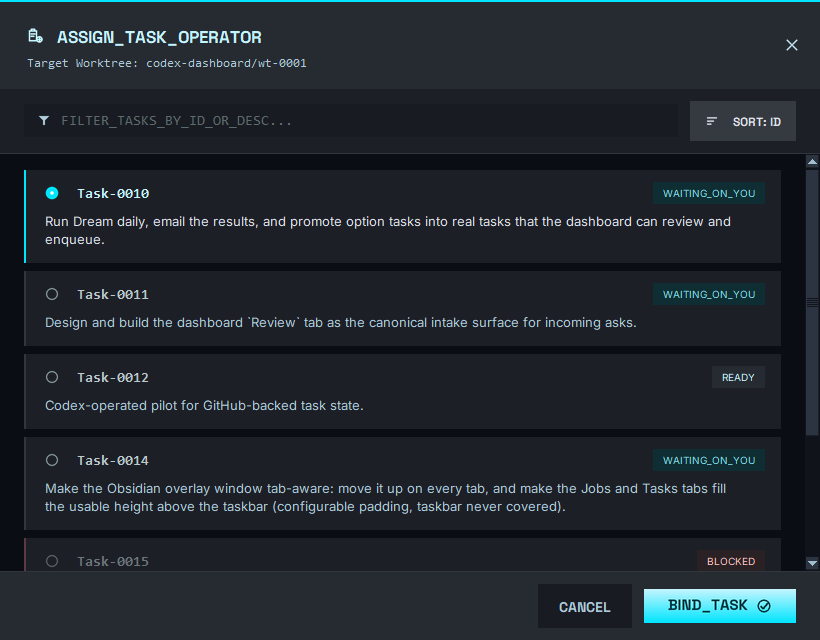
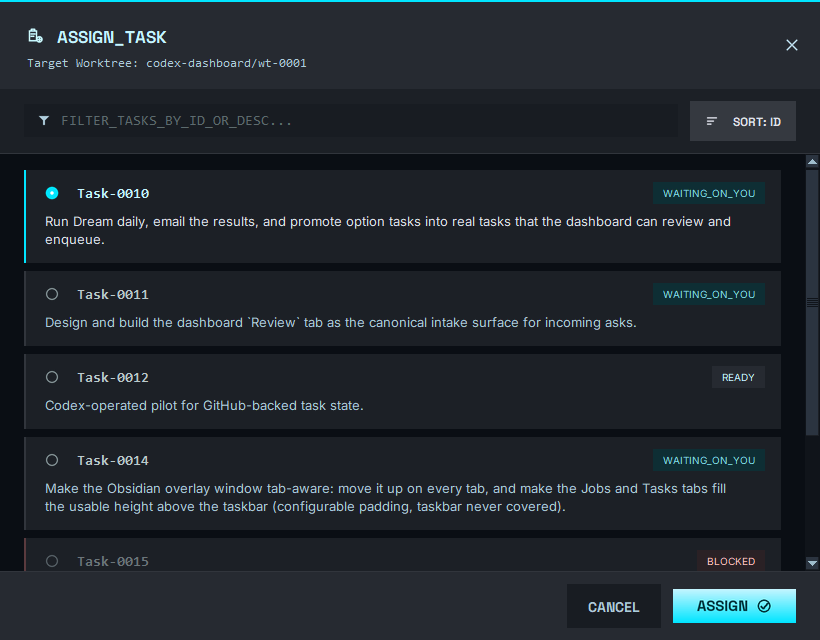
task-0016: WORKTREES-tab buttons to flat mockup style + renames
Ground the tab/card buttons in mockup-4's button language (flat 0px,
matching the Assign popup family):
- CREATE WORKTREE -> NEW WORKTREE (ghost-cyan + plus icon, cyan border)
- REFRESH STATUS  -> REFRESH (quiet gray)
- EJECT -> ghost-red flat + eject icon; DEQUEUE -> quiet flat (disabled
  when no bound task); ASSIGN -> solid-cyan flat
- popup title ASSIGN_TASK_OPERATOR -> ASSIGN_TASK; primary CTA
  BIND_TASK -> ASSIGN

glyphs: add plus + eject; _flat_button: add border (ghost) + disabled.
Full unit suite green (189).

Changed region(s): [[0.6707, 0.9062, 0.9146, 1.0], [0.2134, 0.0312, 0.3354, 0.0938]]

diff --git a/app/codex_dashboard/ui.py b/app/codex_dashboard/ui.py
@@ -1090,11 +1090,10 @@ class DashboardApp:
             justify="left",
         )
         self.worktrees_action_status_label.pack(anchor="w", pady=(2, 0))
-        self.worktrees_refresh_button = ttk.Button(
-            header,
-            text="REFRESH STATUS",
-            style="Quiet.TButton",
-            command=self.refresh_worktrees_data,
+        self.worktrees_refresh_button = self._flat_button(
+            header, "REFRESH", self.refresh_worktrees_data,
+            bg="#262a31", fg="#adcbda", hover_bg="#353940", hover_fg="#dfe2eb",
+            font=("Space Grotesk", -12, "bold"), padx=14, pady=7,
         )
         self.worktrees_refresh_button.grid(row=0, column=1, sticky="e")
 
@@ -1112,11 +1111,11 @@ class DashboardApp:
         )
         self.worktrees_repo_combo.pack(side="left", padx=(0, 12))
         self.worktrees_repo_combo.bind("<<ComboboxSelected>>", self._on_worktrees_repo_filter_changed)
-        self.worktrees_create_button = ttk.Button(
-            toolbar,
-            text="CREATE WORKTREE",
-            style="Accent.TButton",
-            command=self.create_worktree_for_selected_repo,
+        self.worktrees_create_button = self._flat_button(
+            toolbar, "NEW WORKTREE", self.create_worktree_for_selected_repo,
+            bg="#1c2026", fg="#00e5ff", hover_bg="#10333a", hover_fg="#c3f5ff",
+            font=("Space Grotesk", -12, "bold"), icon="plus", icon_color="#00e5ff",
+            icon_side="left", border="#0e4a52", padx=14, pady=7,
         )
         self.worktrees_create_button.pack(side="right")
 
@@ -1298,7 +1297,7 @@ class DashboardApp:
             # When the backend is reachable but the (filtered) pool is empty, point the
             # operator at CREATE WORKTREE rather than the generic refresh line.
             if str(self.worktrees_snapshot.get("status") or "") == "ok":
-                empty_text = "No worktrees in this repo yet - use CREATE WORKTREE to add one."
+                empty_text = "No worktrees in this repo yet - use NEW WORKTREE to add one."
             else:
                 empty_text = self.worktrees_status_message
             ttk.Label(
@@ -1440,16 +1439,17 @@ class DashboardApp:
                 parent, "details", lambda wt=dict(worktree): self.open_worktree_details(wt),
                 "Details", row_bg,
             ).pack(side="left", padx=(0, 10))
-            dequeue_button = ttk.Button(
-                parent, text="DEQUEUE", style="Quiet.TButton",
-                command=lambda tid=task_id: self.dequeue_task_action(tid),
-            )
-            if not task_id:
-                dequeue_button.state(["disabled"])
-            dequeue_button.pack(side="left", padx=(0, 8))
-            ttk.Button(
-                parent, text="EJECT", style="Danger.TButton",
-                command=lambda rid=run_id, wid=worktree_id: self.eject_worktree_action(rid, wid),
+            self._flat_button(
+                parent, "DEQUEUE", lambda tid=task_id: self.dequeue_task_action(tid),
+                bg="#303743", fg="#dfe2eb", hover_bg="#3b4450",
+                font=("Space Grotesk", -11, "bold"), padx=12, pady=6,
+                disabled=not task_id,
+            ).pack(side="left", padx=(0, 8))
+            self._flat_button(
+                parent, "EJECT", lambda rid=run_id, wid=worktree_id: self.eject_worktree_action(rid, wid),
+                bg="#2a1719", fg="#ffb4ab", hover_bg="#5a2327",
+                font=("Space Grotesk", -11, "bold"), icon="eject", icon_color="#ffb4ab",
+                icon_side="left", padx=12, pady=6,
             ).pack(side="left")
         else:
             self._worktree_icon_button(
@@ -1460,9 +1460,10 @@ class DashboardApp:
                 parent, "destroy", lambda wid=worktree_id: self.destroy_worktree_action(wid),
                 "Destroy", row_bg,
             ).pack(side="left", padx=(0, 12))
-            ttk.Button(
-                parent, text="ASSIGN", style="Accent.TButton",
-                command=lambda wt=dict(worktree): self.open_assign_popup(wt),
+            self._flat_button(
+                parent, "ASSIGN", lambda wt=dict(worktree): self.open_assign_popup(wt),
+                bg="#00e5ff", fg="#00363d", hover_bg="#2ee8ff",
+                font=("Space Grotesk", -11, "bold"), padx=14, pady=6,
             ).pack(side="left")
 
     def _icon_photo(self, kind: str, color: str, size: int):
@@ -1714,7 +1715,7 @@ class DashboardApp:
         if assign_icon is not None:
             tk.Label(title_row, image=assign_icon, bg="#262a31").pack(side="left", padx=(0, 8))
         tk.Label(
-            title_row, text="ASSIGN_TASK_OPERATOR", bg="#262a31", fg="#c3f5ff",
+            title_row, text="ASSIGN_TASK", bg="#262a31", fg="#c3f5ff",
             font=("Space Grotesk", -17, "bold"),
         ).pack(side="left")
         tk.Label(
@@ -1729,10 +1730,10 @@ class DashboardApp:
         # Full-width footer band with a top divider separating it from the scrollable list.
         tk.Frame(popup, bg="#31353c", height=1).pack(side="bottom", fill="x")
         bind_command = lambda: self._confirm_assign(popup, selection.get(), repo_for_assign, worktree_id)
-        bind_button = self._cta_button(footer, "BIND_TASK", bind_command, "#262a31")
+        bind_button = self._cta_button(footer, "ASSIGN", bind_command, "#262a31")
         if bind_button is None:
             bind_button = self._flat_button(
-                footer, "BIND_TASK", bind_command,
+                footer, "ASSIGN", bind_command,
                 bg="#00e5ff", fg="#00363d", hover_bg="#2ee8ff",
                 font=("Space Grotesk", -14, "bold"), icon="check", icon_color="#00363d",
                 padx=18, pady=9,
@@ -1856,18 +1857,25 @@ class DashboardApp:
     def _flat_button(
         self, parent, text, command, *, bg, fg, hover_bg, hover_fg=None, font,
         icon=None, icon_color=None, icon_side="right", padx=14, pady=8,
+        border=None, disabled=False,
     ):
-        # A flat 0px-radius button (mockup CTAs): solid fill + hover, optional crisp glyph.
-        # Built from tk widgets (not ttk) so the fill, padding, font, and icon match exactly.
+        # A flat 0px-radius button (mockup CTAs): solid fill + hover, optional crisp glyph
+        # and a thin border (ghost buttons). Built from tk widgets (not ttk) so the fill,
+        # padding, font, and icon match the mockup exactly. `disabled` mutes it + drops input.
         hover_fg = hover_fg or fg
-        frame = tk.Frame(parent, bg=bg, cursor="hand2")
+        eff_fg = "#566066" if disabled else fg
+        eff_icon_color = "#566066" if disabled else (icon_color or fg)
+        frame_kwargs = {"bg": bg, "cursor": "" if disabled else "hand2"}
+        if border is not None:
+            frame_kwargs.update(highlightthickness=1, highlightbackground=border, highlightcolor=border)
+        frame = tk.Frame(parent, **frame_kwargs)
         inner = tk.Frame(frame, bg=bg)
         inner.pack(padx=padx, pady=pady)
-        text_label = tk.Label(inner, text=text, bg=bg, fg=fg, font=font)
+        text_label = tk.Label(inner, text=text, bg=bg, fg=eff_fg, font=font)
         widgets = [frame, inner, text_label]
         icon_label = None
         if icon is not None:
-            image = self._icon_photo(icon, icon_color or fg, 16)
+            image = self._icon_photo(icon, eff_icon_color, 16)
             if image is not None:
                 icon_label = tk.Label(inner, image=image, bg=bg)
                 widgets.append(icon_label)
@@ -1878,6 +1886,8 @@ class DashboardApp:
             text_label.pack(side="left")
             if icon_label is not None:
                 icon_label.pack(side="left", padx=(8, 0))
+        if disabled:
+            return frame
 
         def enter(_e):
             for widget in widgets:

diff --git a/app/codex_dashboard/glyphs.py b/app/codex_dashboard/glyphs.py
@@ -101,6 +101,13 @@ def render_glyph(kind: str, color: str, size: int, supersample: int = SUPERSAMPL
         draw.ellipse([pt(0.4, 0.4), pt(0.6, 0.6)], fill=(255, 255, 255, 255))
     elif kind == "radio_off":
         circle(0.14, 0.14, 0.86, 0.86)
+    elif kind == "plus":
+        line([(0.5, 0.18), (0.5, 0.82)])
+        line([(0.18, 0.5), (0.82, 0.5)])
+    elif kind == "eject":
+        # an eject symbol: a triangle pointing up over a horizontal bar.
+        draw.polygon([pt(0.5, 0.2), pt(0.82, 0.56), pt(0.18, 0.56)], fill=rgba)
+        draw.rectangle([pt(0.18, 0.66), pt(0.82, 0.78)], fill=rgba)
     else:
         raise ValueError(f"unknown glyph kind: {kind!r}")
 
@@ -164,4 +171,6 @@ GLYPH_KINDS = (
     "check",
     "radio_on",
     "radio_off",
+    "plus",
+    "eject",
 )

diff --git a/Tracking/Task-0016/Testing/CardRedesign/REVIEW.md b/Tracking/Task-0016/Testing/CardRedesign/REVIEW.md
@@ -30,8 +30,12 @@ slot, one parked allocated slot (needs review), one idle slot.
 - **Right-justified actions**: Details (ⓘ) + DEQUEUE + EJECT for allocated; Details + a
   Destroy (trash) icon + ASSIGN for idle. Each icon is borderless, accent-on-hover, with a
   hover tooltip naming the action.
+- **Tab + card buttons** are flat mockup-style (grounded in mockup-4): ghost-cyan
+  **`+ NEW WORKTREE`** (renamed from CREATE WORKTREE), quiet **`REFRESH`** (renamed from
+  REFRESH STATUS), ghost-red **`⏏ EJECT`**, quiet **`DEQUEUE`**, solid-cyan **`ASSIGN`** —
+  matching the popup's button family.
 
-## ASSIGN_TASK_OPERATOR popup — mockup conformance
+## ASSIGN_TASK popup — mockup conformance
 
 Redesigned the Assign popup to the second Stitch mockup
 (`stitch_codex_token_velocity_overlay (5)\screen.png` + `code.html`).
@@ -41,7 +45,7 @@ Redesigned the Assign popup to the second Stitch mockup
 - **Cyan top border**; tonal layering (header/footer `surface-container-high` #262a31,
   toolbar/cards `surface-container` #1c2026, list `surface-container-lowest` #0a0e14) with
   toolbar/footer divider hairlines.
-- **Header**: `assignment_add` icon + `ASSIGN_TASK_OPERATOR` title + `Target Worktree:`
+- **Header**: `assignment_add` icon + `ASSIGN_TASK` title + `Target Worktree:`
   subtitle (mono) + close **X**.
 - **Toolbar**: `FILTER_TASKS_BY_ID_OR_DESC...` field (live filter) + `SORT: ID` (toggles
   id asc/desc).
@@ -49,7 +53,7 @@ Redesigned the Assign popup to the second Stitch mockup
   cyan family, `BLOCKED` orange-red) + description. **Selected** = cyan left border + a
   solid filled cyan radio + cyan id; **blocked** = orange border, muted/disabled (not
   selectable).
-- **Footer**: `CANCEL` + a **`BIND_TASK`** primary CTA rendered as a baked image with the
+- **Footer**: `CANCEL` + an **`ASSIGN`** primary CTA rendered as a baked image with the
   mockup's vertical **cyan gradient glow** (`#c3f5ff`→`#00e5ff`), heavy Space Grotesk text,
   and a `check_circle` glyph.
 - New pure helpers (testable): `task_state_category` / `task_state_chip_label` /
